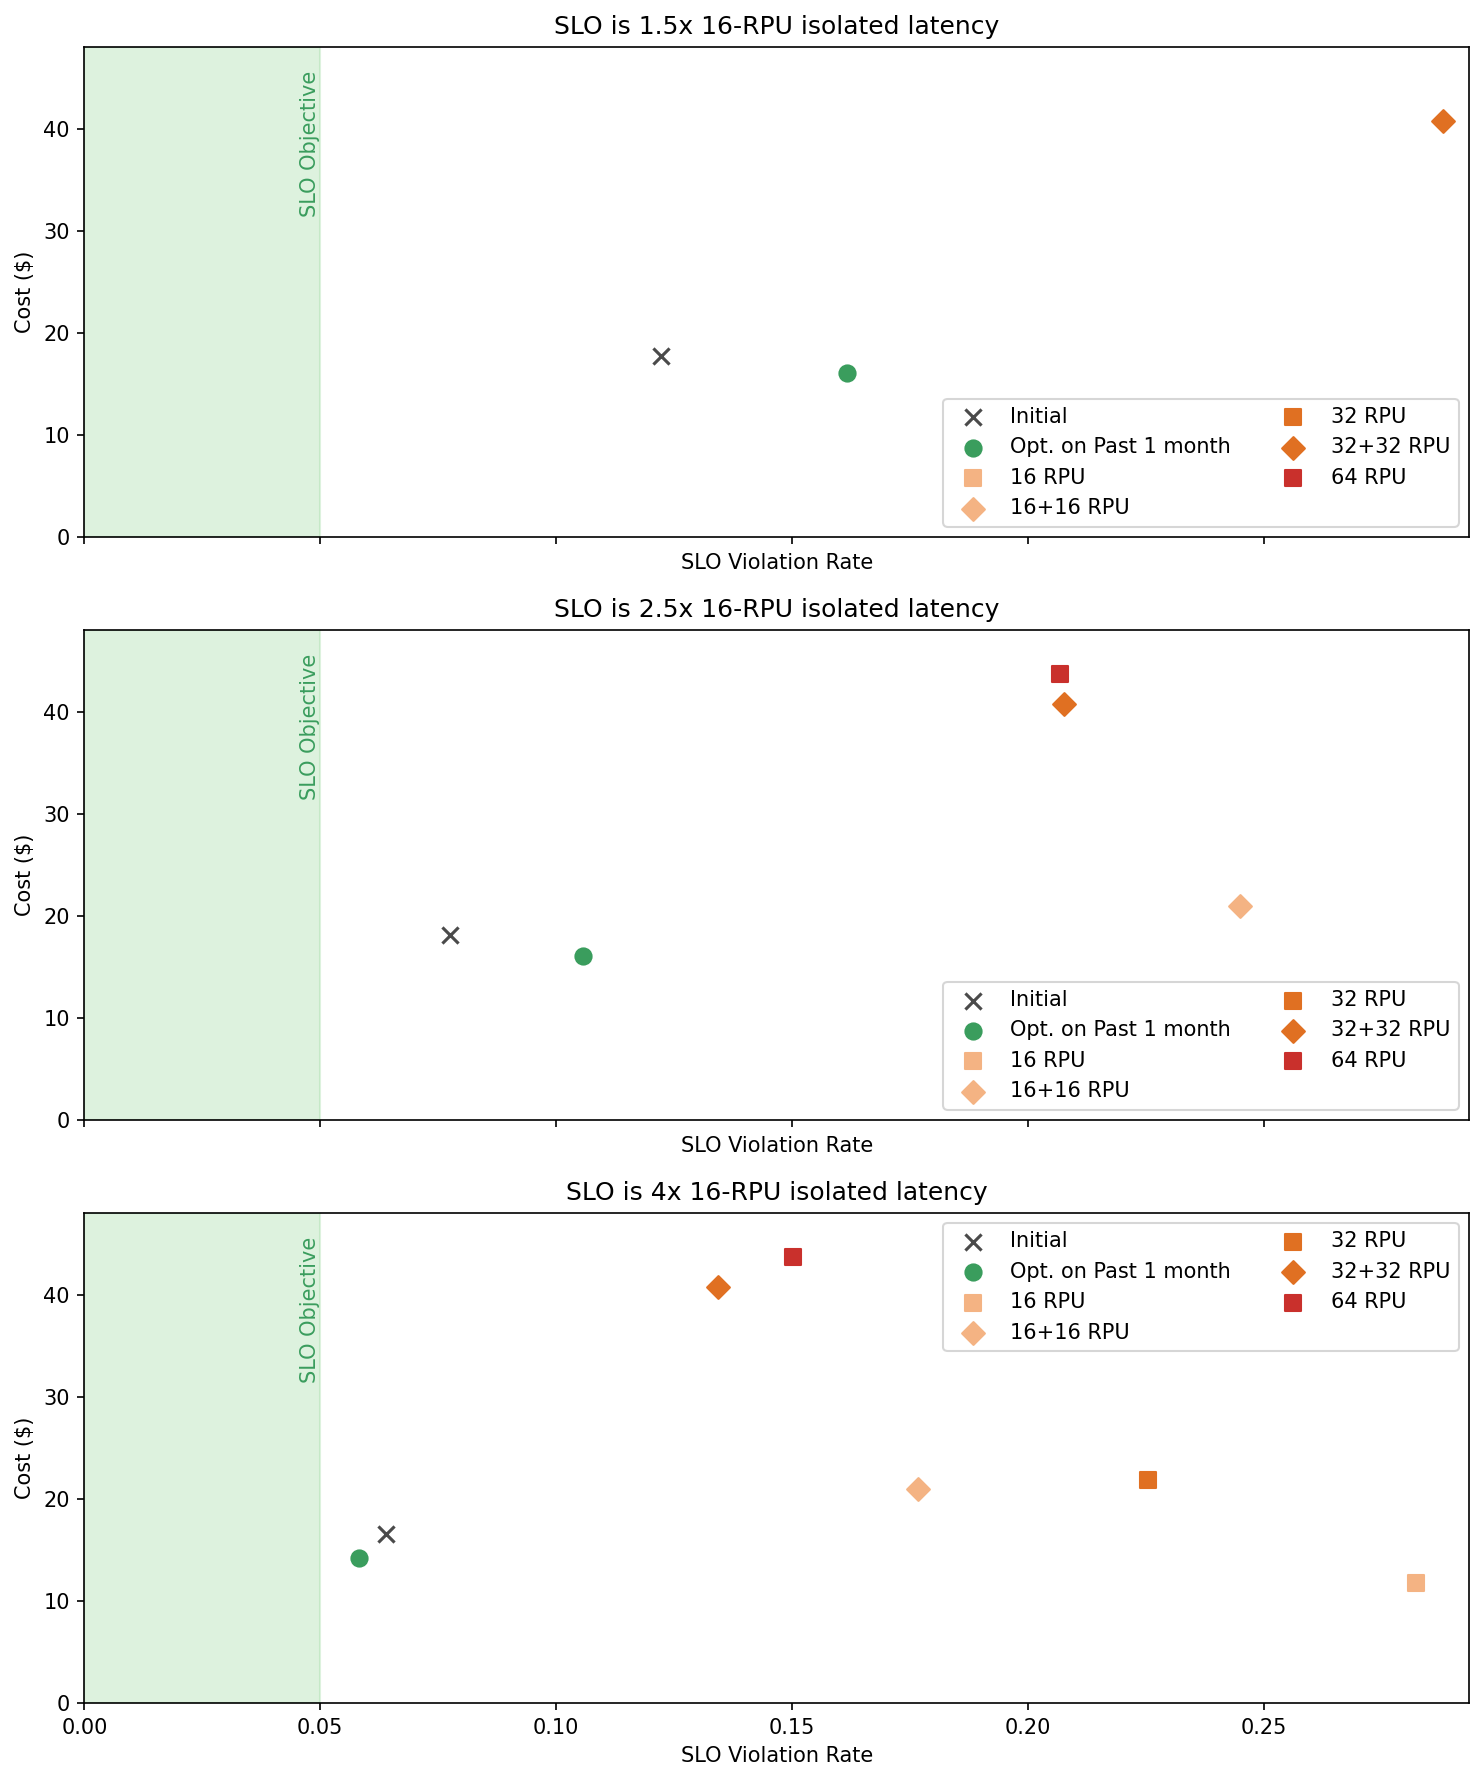
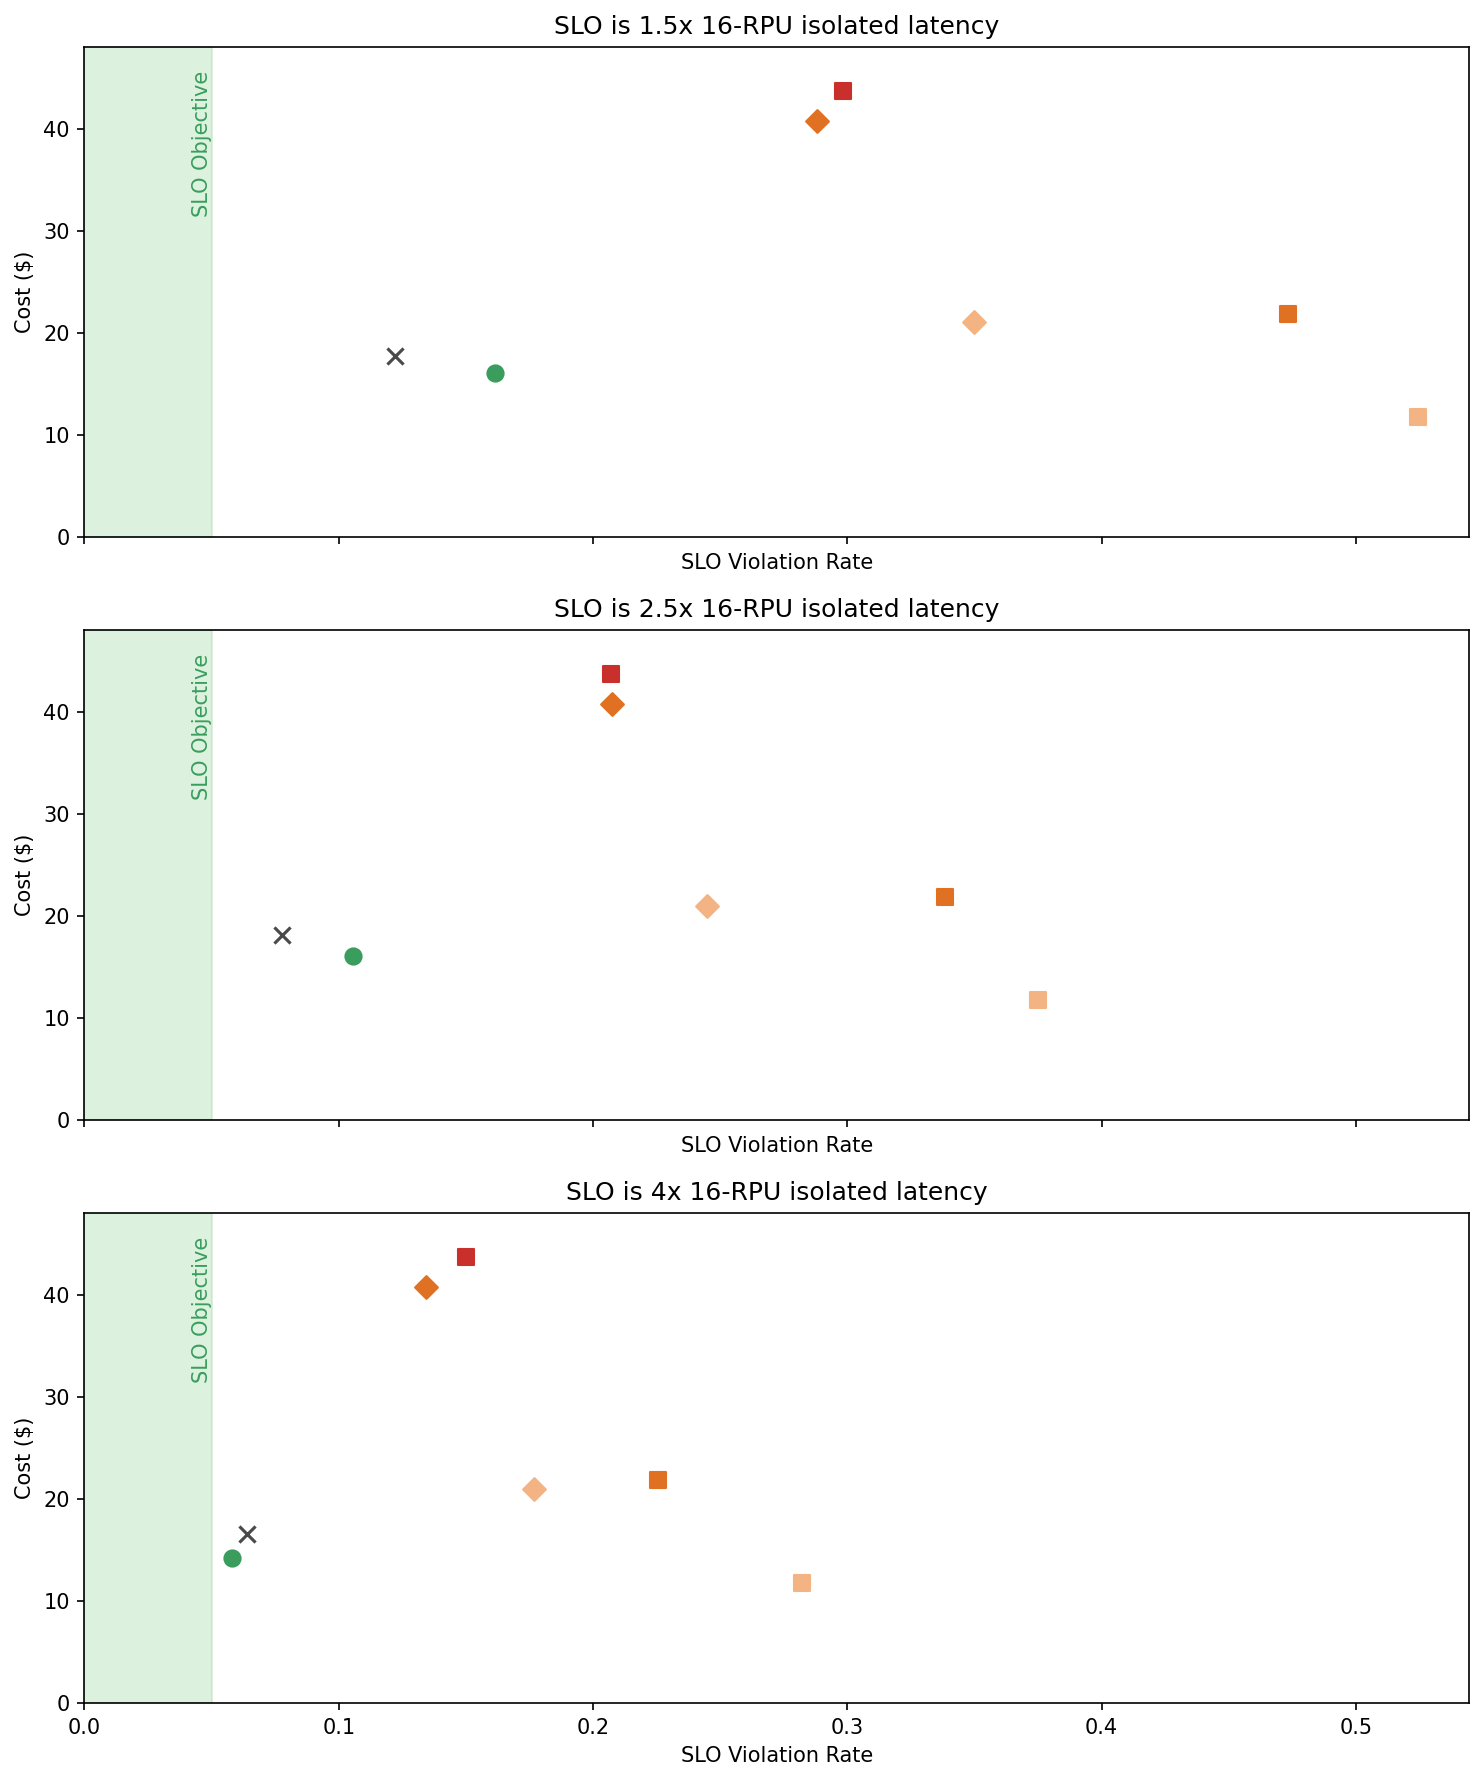
Have legend be a separate figure

diff --git a/src/autoslo/utils/plotting.py b/src/autoslo/utils/plotting.py
@@ -3,6 +3,7 @@
 from __future__ import annotations
 
 from dataclasses import dataclass
+from pathlib import Path
 from typing import Optional, Sequence
 
 import matplotlib.pyplot as plt
@@ -37,20 +38,34 @@ FORMATTING = {
 }
 
 
+def plot_legend_to(path: str | Path):
+    """
+    Plot just the legend as a small image.
+    """
+    fig, ax = plt.subplots(figsize=(3, 1))
+    for fmt in FORMATTING.values():
+        ax.scatter([], [], label=fmt[0], color=fmt[1], marker=fmt[2], s=60)
+    ax.legend(ncol=1, loc="center")
+    ax.axis("off")
+    fig.savefig(path, bbox_inches="tight", dpi=300)
+    plt.close(fig)
+
+
 def cost_vs_compliance_scatter(
     points: Sequence[ScatterPoint],
     *,
     x_metric: str | SloMetric,
     x_scale: Optional[str] = None,
+    existing_xlims: Optional[tuple[float, float]] = None,
+    existing_ylims: Optional[tuple[float, float]] = None,
     title: str | None = None,
     x_pad: float = 0.05,
     y_bottom: float = 0,
     figsize: tuple[float, float] = (6, 5),
-    legend: bool = True,
     ax: Axes | None = None,
     x_threshold_color: str = Palette.light_green,
     x_threshold_objective: SloObjective | None = None,
-) -> tuple[Figure, Axes]:
+) -> tuple[Figure, Axes, tuple[float, float], tuple[float, float]]:
     """Create a cost-vs-compliance scatter plot.
 
     Parameters
@@ -62,17 +77,22 @@ def cost_vs_compliance_scatter(
     x_scale :
         Scale for the x-axis (``"linear"`` or ``"log"``). If None, the scale is
         determined from the SLO metric.
+    existing_xlims :
+        If given, existing x-axis limits from other panels. Make sure we only
+        expand these limits, never shrink them, to ensure consistent x-axis
+        limits across panels.
+    existing_ylims :
+        If given, existing y-axis limits from other panels. Make sure we only
+        expand these limits, never shrink them, to ensure consistent y-axis
+        limits across panels.
     title :
         Optional title for the plot.
     x_pad :
         Relative padding added to the x-axis limits around the data.
     y_bottom :
         Lower bound for the y-axis.
-
     figsize :
         Figure size when creating a new figure (ignored if *ax* given).
-    legend :
-        Whether to draw a legend.
     ax :
         Optional pre-existing axes to draw on.  When *None* a new figure
         is created.
@@ -87,6 +107,12 @@ def cost_vs_compliance_scatter(
     -------
     (fig, ax)
         The matplotlib figure and axes.
+    xlims
+        The x-axis limits after plotting, which may be useful for ensuring
+        consistent limits across panels.
+    ylims
+        The y-axis limits after plotting, which may be useful for ensuring
+        consistent limits across panels.
     """
     if ax is None:
         fig, ax = plt.subplots(figsize=figsize)
@@ -132,8 +158,10 @@ def cost_vs_compliance_scatter(
     ax.set_xlabel(x_metric_asobj.to_plot_axis_label())
     ax.set_ylabel("Cost ($)")
 
-    y_top = max(pt.y for pt in points) * 1.1 if points else 1.0
-    ax.set_ylim(bottom=y_bottom, top=y_top)
+    yvals = [pt.y for pt in points]
+    bottom, top = existing_ylims if existing_ylims else (0, max(yvals))
+    top = max(top, max(yvals) * 1.1)
+    ax.set_ylim(bottom=bottom, top=top)
 
     if x_scale is None:
         x_scale = x_metric_asobj.to_plot_axis_scale()
@@ -143,27 +171,15 @@ def cost_vs_compliance_scatter(
 
     # Relative padding around x data.
     xvals = [pt.x for pt in points]
+    left, right = existing_xlims if existing_xlims else (min(xvals), max(xvals))
     if x_scale == "linear" and len(points) > 0:
         additional = (max(xvals) - min(xvals)) * x_pad
-        ax.set_xlim(0, max(xvals) + additional)
+        left = 0
+        right = max(right, max(xvals) + additional)
     elif x_scale == "log":
         factor = (max(xvals) / min(xvals)) ** x_pad
-        ax.set_xlim(min(xvals) / factor, max(xvals) * factor)
-
-    if legend:
-        # Order the legend according to FORMATTING.
-        handles, labels = ax.get_legend_handles_labels()
-        label_sort_order = [fmt[0] for fmt in FORMATTING.values()]
-        sorted_handles_labels = sorted(
-            zip(handles, labels),
-            key=lambda hl: (
-                label_sort_order.index(hl[1])
-                if hl[1] in label_sort_order
-                else len(label_sort_order)
-            ),
-        )
-        sorted_handles, sorted_labels = zip(*sorted_handles_labels)
-        ax.legend(sorted_handles, sorted_labels, ncols=2)
-
+        left = min(left, min(xvals) / factor)
+        right = max(right, max(xvals) * factor)
+    ax.set_xlim(left, right)
     fig.tight_layout()
-    return fig, ax
+    return fig, ax, (left, right), (bottom, top)

diff --git a/src/autoslo/experiments/aggregate_trials.py b/src/autoslo/experiments/aggregate_trials.py
@@ -10,9 +10,8 @@ import argparse
 import csv
 import json
 import os
-import sys
 from pathlib import Path
-from typing import Any
+from typing import Any, Optional
 
 import matplotlib.pyplot as plt
 import pandas as pd
@@ -23,7 +22,11 @@ from rich.table import Table
 import autoslo.utils.paths as pu
 from autoslo.slo.slo_metric import SloMetric
 from autoslo.slo.slo_objective import SloObjective
-from autoslo.utils.plotting import ScatterPoint, cost_vs_compliance_scatter
+from autoslo.utils.plotting import (
+    ScatterPoint,
+    cost_vs_compliance_scatter,
+    plot_legend_to,
+)
 from autoslo.utils.yaml_helpers import load_yaml
 
 
@@ -137,6 +140,8 @@ def plot_experiment(experiment_definition_dir: Path | str) -> None:
                 )
             axs = axs.flatten()
 
+            prev_panel_xlims: Optional[tuple[float, float]] = None
+            prev_panel_ylims: Optional[tuple[float, float]] = None
             for panel_idx, (trial_id, trial_rows) in enumerate(
                 summary.groupby("trial", sort=False)
             ):
@@ -153,12 +158,16 @@ def plot_experiment(experiment_definition_dir: Path | str) -> None:
                         )
                     )
 
-                cost_vs_compliance_scatter(
-                    points,
-                    x_metric=slo_metric,
-                    title=trial_ids_human[trial_id],
-                    x_threshold_objective=slo_objectives[trial_id],
-                    ax=axs[panel_idx],  # type: ignore
+                _, _, prev_panel_xlims, prev_panel_ylims = (
+                    cost_vs_compliance_scatter(
+                        points,
+                        x_metric=slo_metric,
+                        title=trial_ids_human[trial_id],
+                        x_threshold_objective=slo_objectives[trial_id],
+                        ax=axs[panel_idx],  # type: ignore
+                        existing_xlims=prev_panel_xlims,
+                        existing_ylims=prev_panel_ylims,
+                    )
                 )
         else:
             # Assert that for each non-final point, we see the same values
@@ -202,7 +211,7 @@ def plot_experiment(experiment_definition_dir: Path | str) -> None:
                     )
                 )
 
-            fig, ax = cost_vs_compliance_scatter(
+            fig, _, _, _ = cost_vs_compliance_scatter(
                 points,
                 title=experiment_name_human,
                 x_metric=slo_metric,
@@ -214,6 +223,7 @@ def plot_experiment(experiment_definition_dir: Path | str) -> None:
         )
         os.makedirs(plot_path.parent, exist_ok=True)
         fig.savefig(plot_path, dpi=150, bbox_inches="tight")
+        plot_legend_to(experiment_definition_dir / "plots" / "legend.png")
         plt.close(fig)
         print(f"Wrote {plot_path}.")
 
